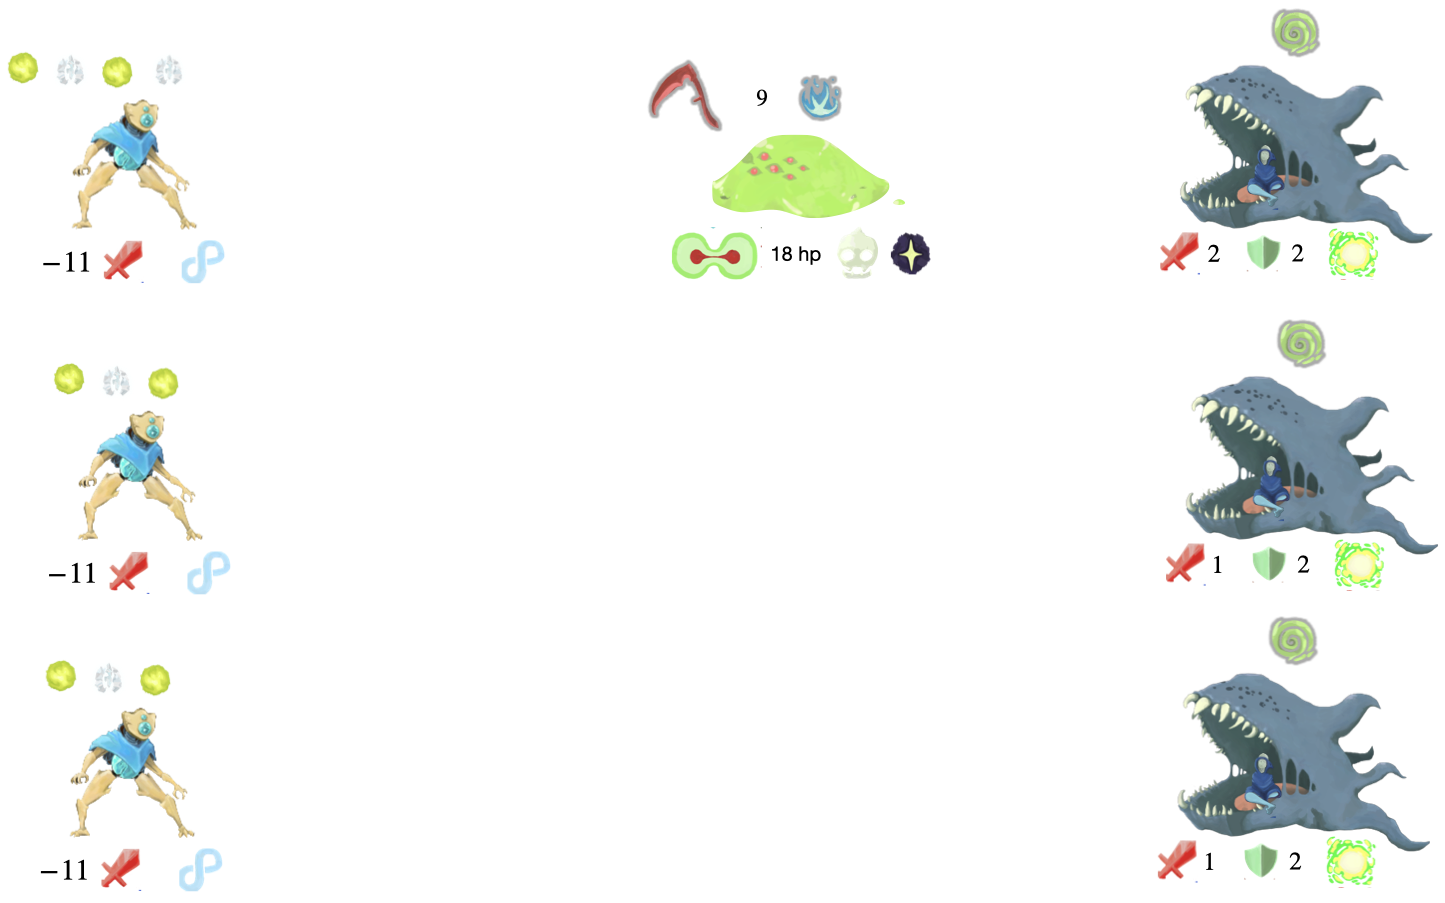
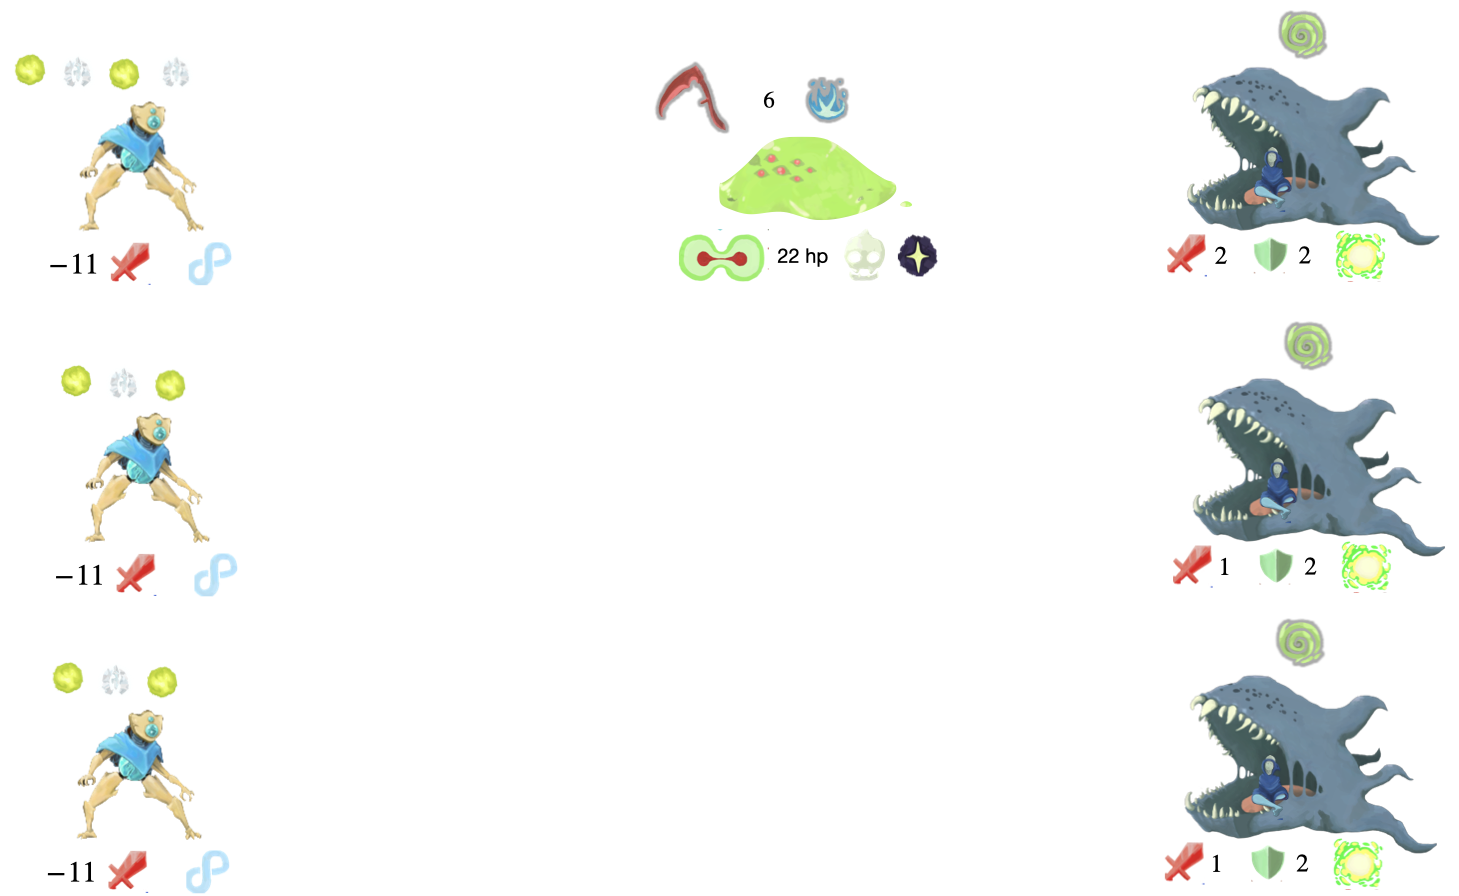
fix more typos + images

diff --git a/_posts/2025-02-03-DefectSlayTheSpireTuringComplete.md b/_posts/2025-02-03-DefectSlayTheSpireTuringComplete.md
@@ -167,7 +167,7 @@ Let's say an enemy has strength $$s$$ and dexterity $$d$$, and starts each turn 
 |||Summon minion attacking for `s + 1` with `2(d + 1)` HP with 2 `malleable` and `fading`|||
 |||Summon minion attacking for `s + 1` with `2(d + 1) + 3` HP with `anger` and `fading`|||
 
-and some details about `Support Slime`. The slime will be attacking for $$s + 7$$, will have hp of $$4d + 10$$, will increase `dexterity` of the main enemy by 1, and die at the end of its turn. It however will split/get interrupted if brought to half health (like other slimes). It will split into two slimes where one of the slimes will raise the main enemy's `strength` by 1. Here's a visual:
+and some details about `Support Slime`. The slime will be attacking for $$ s + 4$$, will have hp of $$4d + 14$$, will increase `dexterity` of the main enemy by 1, and die at the end of its turn. It however will split/get interrupted if brought to half health (like other slimes). It will split into two slimes where one of the slimes will raise the main enemy's `strength` by 1. Here's a visual:
 
 <img src="assets/img/slime_def.png"  />
 
@@ -211,7 +211,7 @@ For cards in deck we'll only have 4 cards (so every turn we draw the same 4 card
 `Zap`, `Cold Snap`, `Quick Slash`, `Multicast`
 <img src="assets/img/initial_defect_deck.png" />
 
-For buffs/debuffs, lets initialize $$-11$$ strength and $$-1$$ focus. (this will keep numbers nicer). Notably this means `Lightning` does $$2$$ passive and $$7$$ evoke damage. `Frost` blocks $$1$$ passive and $$4$$ when evoked. `Quick Slash` only does $$3$$ damage ($$+6$$ strength from Fasting but $$-12$$ strength debuffed applied to a base damage of $$9$$)
+For buffs/debuffs, lets initialize $$-11$$ strength and $$-1$$ focus. (this will keep numbers nicer). Notably this means `Lightning` does $$2$$ passive and $$7$$ evoke damage. `Frost` blocks $$1$$ passive and $$4$$ when evoked. `Quick Slash` only does $$3$$ damage ($$+6$$ strength from Fasting but $$-11$$ strength debuffed applied to a base damage of $$8$$)
 
 Finally, in our game state the Defect has 1 HP left.
 
@@ -243,7 +243,7 @@ It's clear that if the defect has no orbs left then the defect loses. We'll show
 
 <b> (A) </b>
 
-In this situation we are facing $$s + 4$$ damage from a minion with $$4d + 14$$ hp. We have $$s$$ frost orbs and $$d$$ lightning orbs. To survive we either need to block $$s + 7$$ damage or deal $$2d + 7$$ damage to get the enemy to split. We have one energy available so we can play only 1 card.
+In this situation we are facing $$ s + 4$$ damage from a minion with $$4d + 14$$ hp. We have $$s$$ frost orbs and $$d$$ lightning orbs. To survive we either need to block $$ s + 4$$ damage or deal $$2d + 7$$ damage to get the enemy to split. We have one energy available so we can play only 1 card.
 
 <b> If our front orb is `Lightning`: </b>
 
@@ -273,7 +273,7 @@ so at the end of this turn the enemy is net $$-1$$ `dex`. This means that we are
 <b>  If our front orb is `Frost`: </b>
 <img src="assets/img/lb.png" />
 
-then we have no way to deal $$2d + 7$$ damage, so we have to block $$s + 7$$. `Loop` blocks 1 for us, and if we evoke our front orb using `Multicast` we can block $$4$$ immediately and $$(s - 1)$$ at the end of turn giving us $$s + 4$$ total block which saves us.
+then we have no way to deal $$2d + 7$$ damage, so we have to block $$s + 4$$. `Loop` blocks 1 for us, and if we evoke our front orb using `Multicast` we can block $$4$$ immediately and $$(s - 1)$$ at the end of turn giving us $$s + 4$$ total block which saves us.
 
 On the enemy second turn the slime deals damage  (which we block), then buffs the main enemy, then dies. We get a `Void` in our discard. The main enemy debuffs
 
